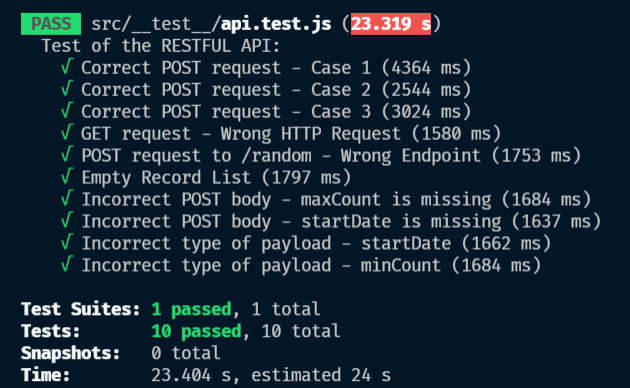
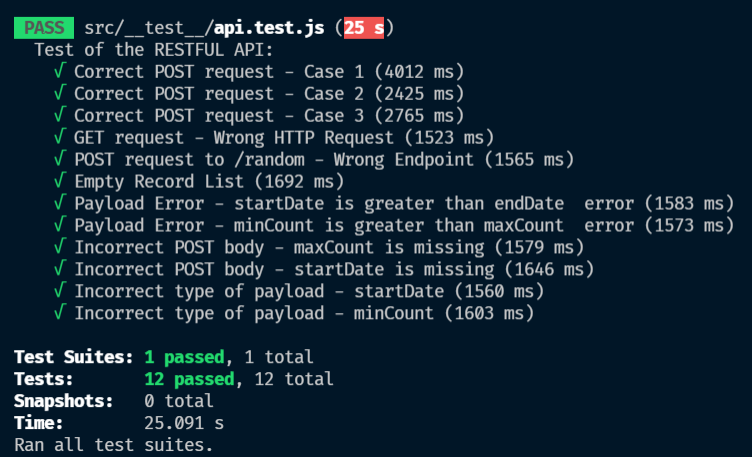
test and validation fix

Changed region(s): [[0.0, 0.0309, 0.9952, 0.7113], [0.0, 0.7423, 0.6333, 0.9897]]

diff --git a/src/__test__/api.test.js b/src/__test__/api.test.js
@@ -30,7 +30,7 @@ describe("Test of the RESTFUL API:", () => {
 
     expect(response.statusCode).toBe(200);
     expect(response.body.code).toBe(0);
-    expect(response.body.msg).toBe("success");
+    expect(response.body.msg).toBe("Success");
     expect(response.body.records[0].totalCount).toBe(310);
   });
 
@@ -45,7 +45,7 @@ describe("Test of the RESTFUL API:", () => {
 
     expect(response.statusCode).toBe(200);
     expect(response.body.code).toBe(0);
-    expect(response.body.msg).toBe("success");
+    expect(response.body.msg).toBe("Success");
     expect(response.body.records.length).toBe(6);
   });
 
@@ -60,7 +60,7 @@ describe("Test of the RESTFUL API:", () => {
 
     expect(response.statusCode).toBe(200);
     expect(response.body.code).toBe(0);
-    expect(response.body.msg).toBe("success");
+    expect(response.body.msg).toBe("Success");
     expect(response.body.records[3].key).toBe("ibfRLaFT");
   });
 
@@ -106,6 +106,38 @@ describe("Test of the RESTFUL API:", () => {
     expect(response.body.records.lenght).toBe(undefined);
   });
 
+  //! startDate is greater than endDate 
+  test("Payload Error - startDate is greater than endDate  error", async () => {
+    const data = {
+      startDate: "2019-01-26",
+      endDate: "2018-02-02",
+      minCount: 100,
+      maxCount: 500,
+    };
+    const response = await request(app).post("/records").send(data);
+
+    expect(response.statusCode).toBe(400);
+    expect(response.body.code).toBe(2);
+    expect(response.body.msg).toBe(`\"endDate\" must be greater than \"ref:startDate\"`);
+    expect(response.body.records.lenght).toBe(undefined);
+  });
+
+   //! minCount is greater than maxCount 
+   test("Payload Error - minCount is greater than maxCount  error", async () => {
+    const data = {
+      startDate: "2015-01-26",
+      endDate: "2018-02-02",
+      minCount: 750,
+      maxCount: 500,
+    };
+    const response = await request(app).post("/records").send(data);
+
+    expect(response.statusCode).toBe(400);
+    expect(response.body.code).toBe(2);
+    expect(response.body.msg).toBe(`\"maxCount\" must be greater than ref:minCount`);
+    expect(response.body.records.lenght).toBe(undefined);
+  });
+
   //! following 4 tests are incorrect payload tests
   test("Incorrect POST body - maxCount is missing", async () => {
     const data = {
@@ -146,7 +178,7 @@ describe("Test of the RESTFUL API:", () => {
 
     expect(response.statusCode).toBe(400);
     expect(response.body.code).toBe(2);
-    expect(response.body.msg).toBe(`\"startDate\" must be a string`);
+    expect(response.body.msg).toBe(`\"startDate\" must be a valid date`);
     expect(response.body.records.lenght).toBe(undefined);
   });
 

diff --git a/src/validations/Record.js b/src/validations/Record.js
@@ -2,10 +2,10 @@ const Joi = require("joi");
 
 //! request payload's validation
 const getAllRecords = Joi.object({
-  startDate: Joi.string().required().min(8),
-  endDate: Joi.string().required().min(8),
+  startDate: Joi.date().iso().required().min(8),
+  endDate: Joi.date().iso().greater(Joi.ref("startDate")).required().min(8),
   minCount: Joi.number().min(0).required(),
-  maxCount: Joi.number().min(0).required(),
+  maxCount: Joi.number().greater(Joi.ref("minCount")).required().min(0),
 });
 
 module.exports = {

diff --git a/src/controllers/Record.js b/src/controllers/Record.js
@@ -7,6 +7,7 @@ const getResult = (req, res) => {
   const end = new Date(req.body.endDate);
   const minCount = req.body.minCount;
   const maxCount = req.body.maxCount;
+
   //! list method is returned records filtered by date
   list(start, end)
     .then((recordList) => {
@@ -46,7 +47,7 @@ const getResult = (req, res) => {
         else{
           const responsePayload = {
             code: 0,
-            msg: "success",
+            msg: "Success",
             records,
           };
         

diff --git a/src/server.js b/src/server.js
@@ -1,5 +1,5 @@
 const app = require("./app");
 //! app is exported and then listen method is used in server.js in order to ease test made by jest and supertest
 app.listen(process.env.PORT || 3000, () => {
-  console.log(`App is running on ${process.env.PORT}...`);
+  console.log(`App is running on ${process.env.PORT || 3000}...`);
 });

diff --git a/README.md b/README.md
@@ -6,7 +6,7 @@ In this project an application is created using Express framework. Application i
 
 VS Code is used as IDE, Postman is used for API testing and MongoDB Compass is used for MongoDB GUI.
 
-Base URL : https://getir-case-study-aselcuktuncer.herokuapp.com/records
+Base URL :https://getir-challenge-aselcuktuncer.herokuapp.com/records
 
 Swagger Documentation: https://app.swaggerhub.com/apis-docs/aselcuktuncer/getir-case-study/1.0.0
 
@@ -36,7 +36,7 @@ The entire application is contained within the `src` folder.
 
 ## Request Using Endpoint URL
 
-    https://getir-case-study-aselcuktuncer.herokuapp.com/records
+    https://getir-challenge-aselcuktuncer.herokuapp.com/records
 
 ## Git Clone Repository
 
@@ -91,7 +91,18 @@ The REST API to the example app is described below.
         ]
     }
 
-## Errors and Error Types
+## Paramaters
+
+
+| Parameter | Type     | Description                |
+| :-------- | :------- | :------------------------- |
+| `startDate` | `Date` | `YYYY-MM-DD format` |
+  `endDate` | `Date`|`YYYY-MM-DD format`
+  `minCount`|`Number`| `For filtering the counts array`
+  `maxCount`|`Number`| `For filtering the counts array`
+
+
+## Error Types
 
 | Code | Description |
 | --- | --- |
@@ -102,7 +113,10 @@ The REST API to the example app is described below.
 
 ## Tests
 
-10 different unit test is made by Jest and Supertest. As can be seen in the photo, 4 different tests is implemented: success, wrong endpoint or incorrect HTTP method, empty record list or incorrect request payload
+12 different unit test is made by Jest and Supertest. As can be seen in the photo, 4 different tests type are implemented: success, wrong endpoint or incorrect HTTP method, empty record list or incorrect request payload
 
 ![Tests](./tests.png)
 
+## Demo
+
+    https://getir-challenge-aselcuktuncer.herokuapp.com/records
